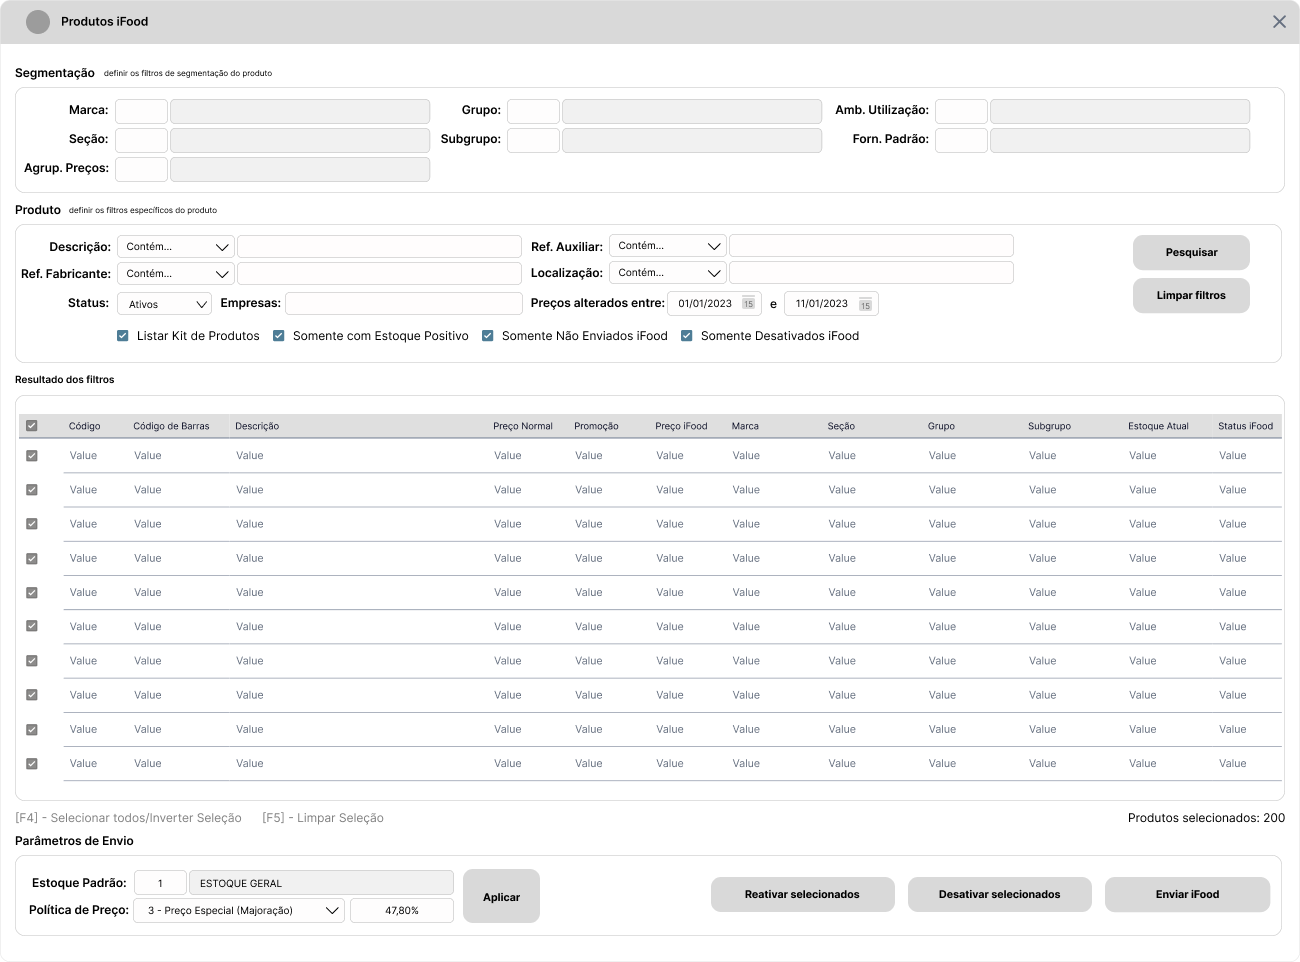
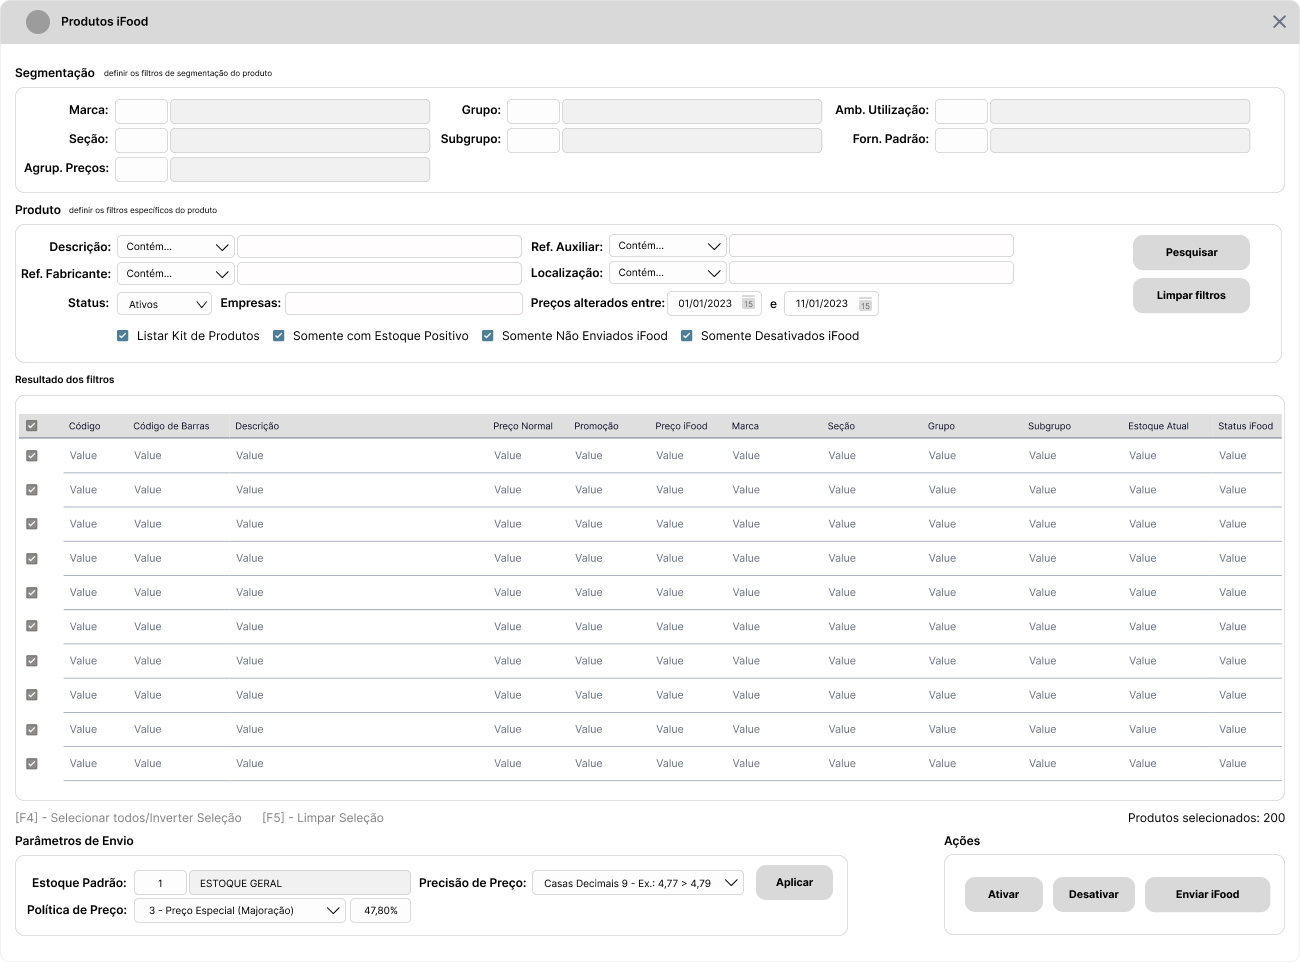
Updates

Changed region(s): [[0.2769, 0.8732, 0.9538, 0.9667], [0.0308, 0.9356, 0.2154, 0.9667]]

diff --git a/Documentation.md b/Documentation.md
@@ -89,14 +89,15 @@ Incluir uma _Grid_ que deve exibir os Produtos resultantes dos filtros aplicados
 
 ### Ações da Tela :pushpin:
 
-| Botão/Função              | Descritivo                                                                                                                           | Regra de Negócio                                                                                                                                           |
-| :------------------------ | :----------------------------------------------------------------------------------------------------------------------------------- | :--------------------------------------------------------------------------------------------------------------------------------------------------------- |
-| Alterar Estoque de Envio  | Campo que exibe o Estoque Padrão de Envio, com permissão de edição.                                                                  | Reprocessar as Quantidades na _Grid_ conforme o Código de Estoque informado.                                                                               |
-| Alterar Política de Preço | Campo que exibe a Política de Preço, com permissão de edição.                                                                        | Reprocessar Preços iFood na _Grid_ conforme alteração da Política. <br> Se Política igual a 3 - Preço Especial, considerar alteração do Percentual padrão. |
-| Aplicar                   | Botão de Ação para Aplicar Estoque e Política de Preço aos Produtos exibidos na _Grid_.                                              | Todos os Produtos. Se seleção ativa, sugerir aplicar apenas à seleção.                                                                                     |
-| Reativar Selecionados     | Botão de Ação para Reativar Produtos selecionados da Base do iFood, quando Status igual a "Inativo" e o Usuário desejar reativá-los. | Somente Produtos uma vez enviados para iFood que estejam "Inativos".                                                                                       |
-| Desativar Selecionados    | Botão de Ação para Desativar Produtos selecionados da Base do iFood, quando Status igual a "Ativo"                                   | Somente Produtos uma vez enviados para iFood que estejam "Ativos".                                                                                         |
-| Enviar para iFood         | Botão de Ação para Enviar Produtos selecionados para o iFood                                                                         | Gravar Dados na Tabela de Envio para iFood. Consultar [Tabela de Dados](#tabela-de-dados-para-ifood)                                                       |
+| Botão/Função              | Descritivo                                                                                                                           | Regra de Negócio                                                                                                                                                                 |
+| :------------------------ | :----------------------------------------------------------------------------------------------------------------------------------- | :------------------------------------------------------------------------------------------------------------------------------------------------------------------------------- |
+| Alterar Estoque de Envio  | Campo que exibe o Estoque Padrão de Envio, com permissão de edição.                                                                  | Reprocessar as Quantidades na _Grid_ conforme o Código de Estoque informado.                                                                                                     |
+| Alterar Política de Preço | Campo que exibe a Política de Preço, com permissão de edição.                                                                        | Reprocessar Preços iFood na _Grid_ conforme alteração da Política. <br> Se Política igual a 3 - Preço Especial, considerar alteração do Percentual padrão.                       |
+| Precisão de Preço         | Campo para configurar a Precisão das Casas Decimais do Preço iFood.                                                                  | Reprocessar Preços iFood na _Grid_ conforme alteração da Precisão. <br> Oferecer as opções para arredondamento para o dígito 9, arredondar para próximo inteiro acima ou abaixo. |
+| Aplicar                   | Botão de Ação para Aplicar Estoque e Política de Preço aos Produtos exibidos na _Grid_.                                              | Todos os Produtos. Se seleção ativa, sugerir aplicar apenas à seleção.                                                                                                           |
+| Reativar Selecionados     | Botão de Ação para Reativar Produtos selecionados da Base do iFood, quando Status igual a "Inativo" e o Usuário desejar reativá-los. | Somente Produtos uma vez enviados para iFood que estejam "Inativos".                                                                                                             |
+| Desativar Selecionados    | Botão de Ação para Desativar Produtos selecionados da Base do iFood, quando Status igual a "Ativo"                                   | Somente Produtos uma vez enviados para iFood que estejam "Ativos".                                                                                                               |
+| Enviar para iFood         | Botão de Ação para Enviar Produtos selecionados para o iFood                                                                         | Gravar Dados na Tabela de Envio para iFood. Consultar [Tabela de Dados](#tabela-de-dados-para-ifood)                                                                             |
 
 [Voltar ao Roadmap](#roadmap-rocket) | [Voltar ao Início](#introdução-wave)
 
@@ -164,6 +165,14 @@ Ao acionar do comando **Enviar para iFood** na Tela descrita anteriormente, é n
 
 :bulb: **Nota:** Para Atualizações dos Produtos já enviados, é necessário utilizar outro método na API do iFood. Quando o produto já existe na Base iFood, **não é necessário** enviar todos os dados, apenas as informações que sofreram alterações como **Estoque e Preço de Venda**.
 Os campos _chave_ para envio das informações são: `idLoja` e `codigoBarra`, complementados com as informações do Preço ou Estoque. Se a alteração for de Preço de Venda, os campos `valor` e `valorPromocao` devem ser enviados. Se a alteração for de Estoque, o campo `quantidadeEstoqueAtual` deve ser enviado.
+
+# Automatizações
+
+| #   | Descritivo                             | Condições                                                                                                                                                                                                                                                          |
+| :-- | :------------------------------------- | :----------------------------------------------------------------------------------------------------------------------------------------------------------------------------------------------------------------------------------------------------------------- |
+| A01 | Inclusão de Produto na Lista iFood     | Se Usuário Cadastrar um Novo Produto e Ativar o Parâmetro "Vender no iFood", incluir automaticamente na Lista de Carga de Produtos iFood.                                                                                                                          |
+| A02 | Atualização de Preço de Venda          | Se Usuário atualizar o Preço de Venda de um Produto com parâmetro "Vender no iFood" ativado, verificar se o Produto existe na Lista de Produtos iFood e atualizar o Preço de Venda obedecendo a Parametrização da [Política de Preço](#parâmetros-gear) utilizada. |
+| A03 | Atualizar Estoque de Produtos da Lista | Se Usuário atualizar o Preço de Venda de um Produto com parâmetro "Vender no iFood" ativado, verificar se o Produto existe na Lista de Produtos iFood e atualizar o Preço de Venda obedecendo a Parametrização da [Política de Preço](#parâmetros-gear) utilizada. |
 
 # Logs de Envio :passport_control:
 
